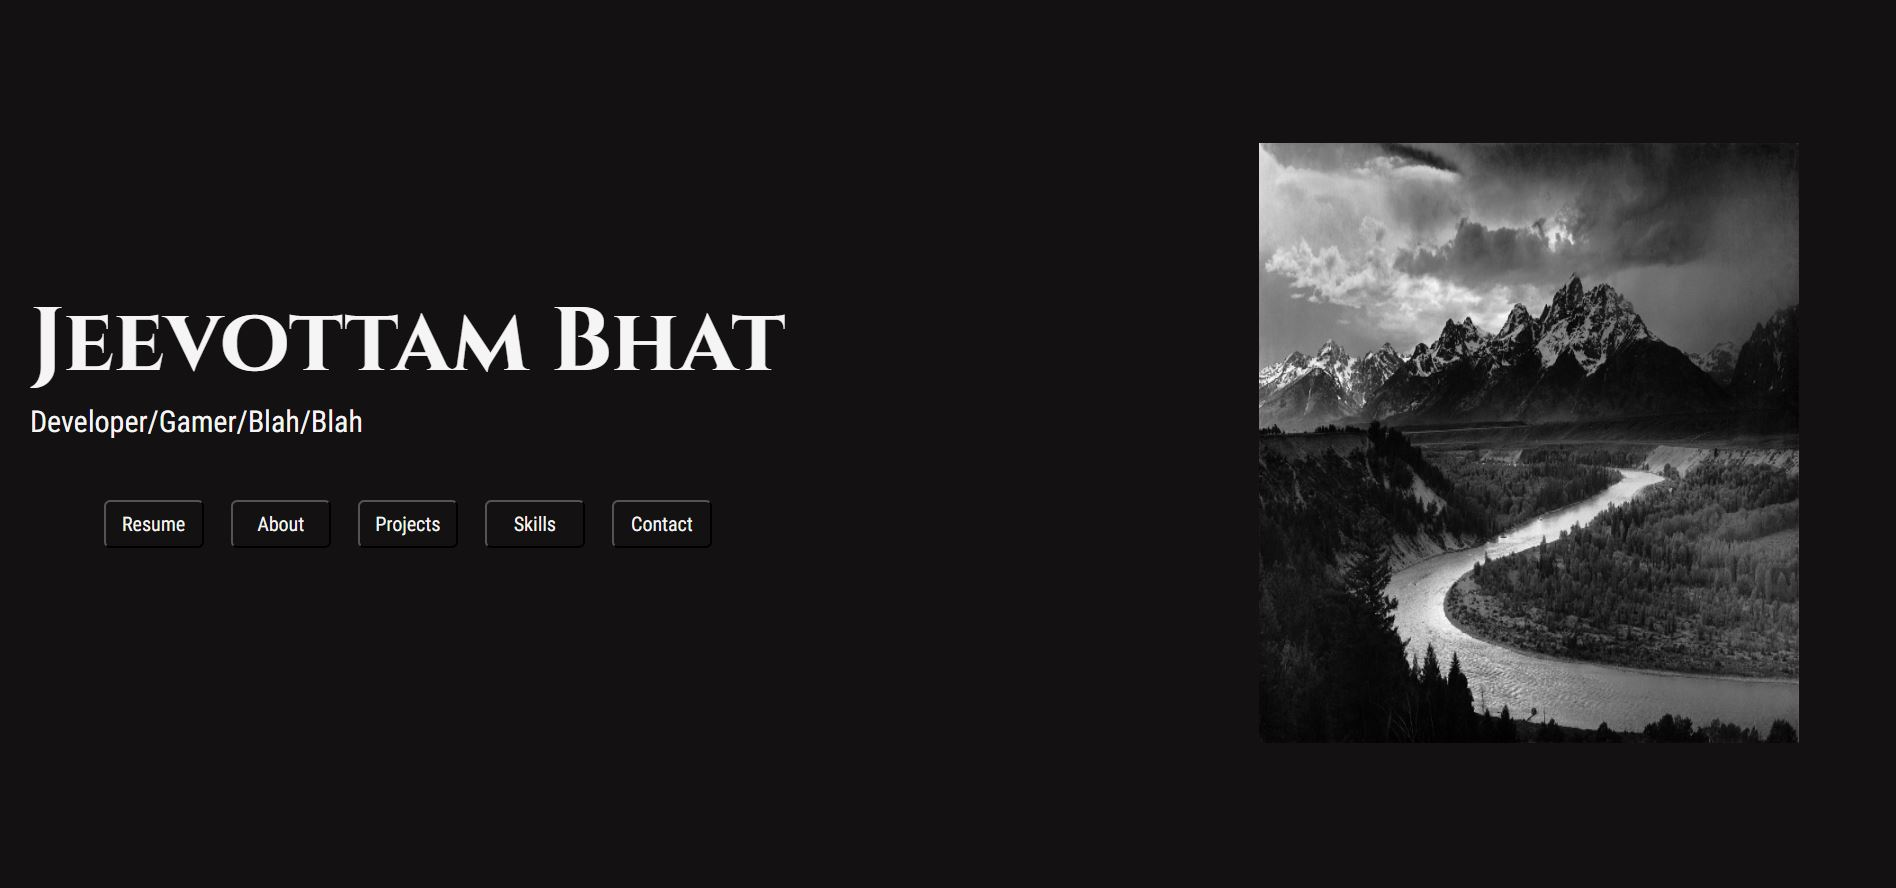
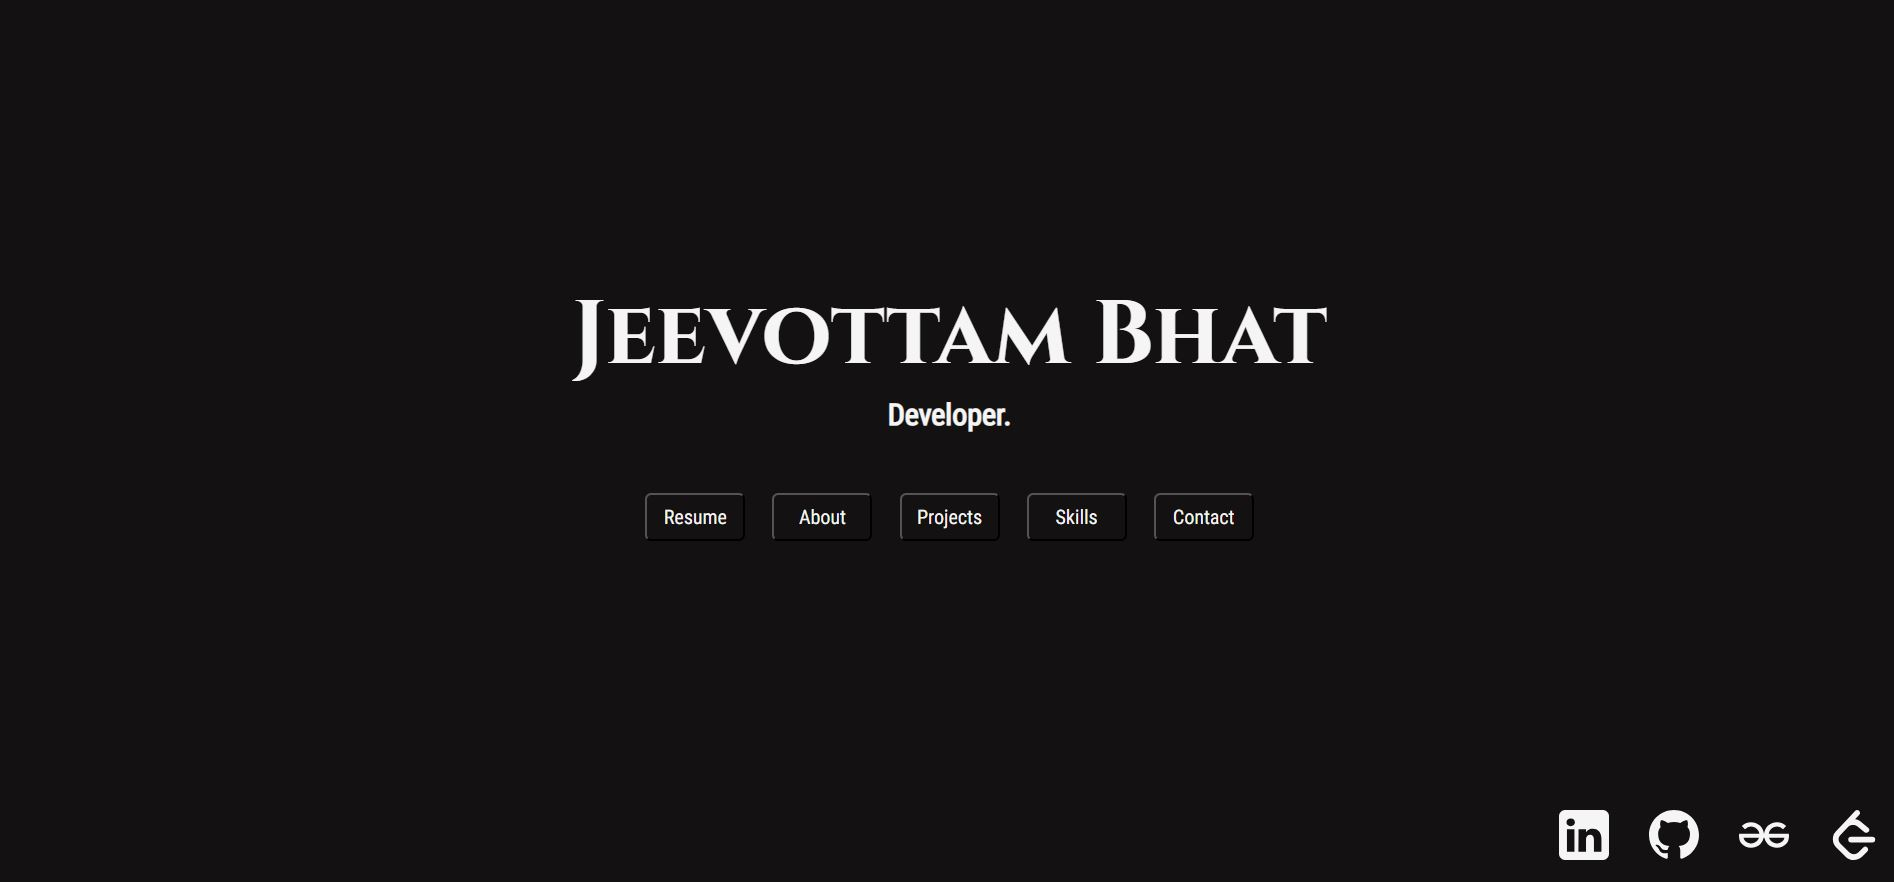
fixing errors

diff --git a/src/components/Home/Home.jsx b/src/components/Home/Home.jsx
@@ -1,5 +1,7 @@
 import React, { useEffect, useRef, useState } from 'react'
 import pfp from '/src/assets/images/pfp.jpg';
+import { BsLinkedin, BsGithub } from "react-icons/bs";
+import { SiGeeksforgeeks, SiLeetcode } from "react-icons/si";
 import './home.css'
 
 const Home = () => {
@@ -65,6 +67,20 @@ const Home = () => {
       {/* <div className="home-second">
         <img src={pfp}></img>
       </div> */}
+      <div className="socials">
+        <a href="https://www.linkedin.com/in/jeevottam-bhat-137a87246/">
+          <BsLinkedin size={40} className="socials-icons linkedin" />
+        </a>
+        <a href="https://github.com/alo06">
+          <BsGithub size={40} className="socials-icons github" />
+        </a>
+        <a href="https://auth.geeksforgeeks.org/user/bhatjeevu06">
+          <SiGeeksforgeeks size={40} className="socials-icons gfg" />
+        </a>
+        <a href="https://leetcode.com/jeevo06">
+          <SiLeetcode size={40} className="socials-icons leetcode" />
+        </a>
+      </div>
     </div>
   );
 }

diff --git a/src/components/Home/home.css b/src/components/Home/home.css
@@ -3,7 +3,6 @@
     display: flex;
     justify-content: center;
     align-items: center;
-    scroll-snap-align: start;
 }
 .home-first{
     padding: 1.5rem;
@@ -44,4 +43,25 @@ button{
 
 .home h2{
     font-size: 1.5rem;
+}
+.socials{
+    position: absolute;
+    right: 0;
+    bottom: 0;
+}
+.socials-icons{
+    margin: 1rem;
+    border-radius: 5px;
+}
+.linkedin:hover{
+    background-color:#0A66C2;
+}
+.github:hover{
+    background-color:#000000;
+}
+.gfg:hover{
+    background-color:#2F8D46;
+}
+.leetcode:hover{
+    background-color:#FFA31B;
 }

diff --git a/src/data.js b/src/data.js
@@ -68,7 +68,7 @@ export const educationData = [
 
 export const icons = {
   frontend: [
-    "/src/assets/images/icons/html.png",
+    "../src/assets/images/icons/html.png",
     "/src/assets/images/icons/css.png",
     "/src/assets/images/icons/javascript.png",
     "/src/assets/images/icons/react.png",

diff --git a/src/components/Skills/skills.css b/src/components/Skills/skills.css
@@ -3,7 +3,6 @@
   display: flex;
   justify-content: center;
   align-items: center;
-  scroll-snap-align: start;
   flex-direction: column;
   background-color: #131212;
   color: whitesmoke;

diff --git a/src/components/About/about.css b/src/components/About/about.css
@@ -3,7 +3,6 @@
     display: flex;
     justify-content: space-around;
     align-items: center;
-    scroll-snap-align: start;
 }
 .about h1{
     font-family: headings;

diff --git a/src/components/Contact/contact.css b/src/components/Contact/contact.css
@@ -6,7 +6,6 @@
   justify-content: center;
   align-items: center;
   flex-direction: column;
-  scroll-snap-align: start;
 }
 
 

diff --git a/src/index.css b/src/index.css
@@ -16,5 +16,4 @@
   background-color: #131212;
   color: whitesmoke;
   font-family: myFont;
-  scroll-snap-type: y mandatory;
 }

diff --git a/src/components/Projects/project.css b/src/components/Projects/project.css
@@ -1,6 +1,5 @@
 .project {
   padding: 20px;
-  scroll-snap-align: start;
 }
 
 
